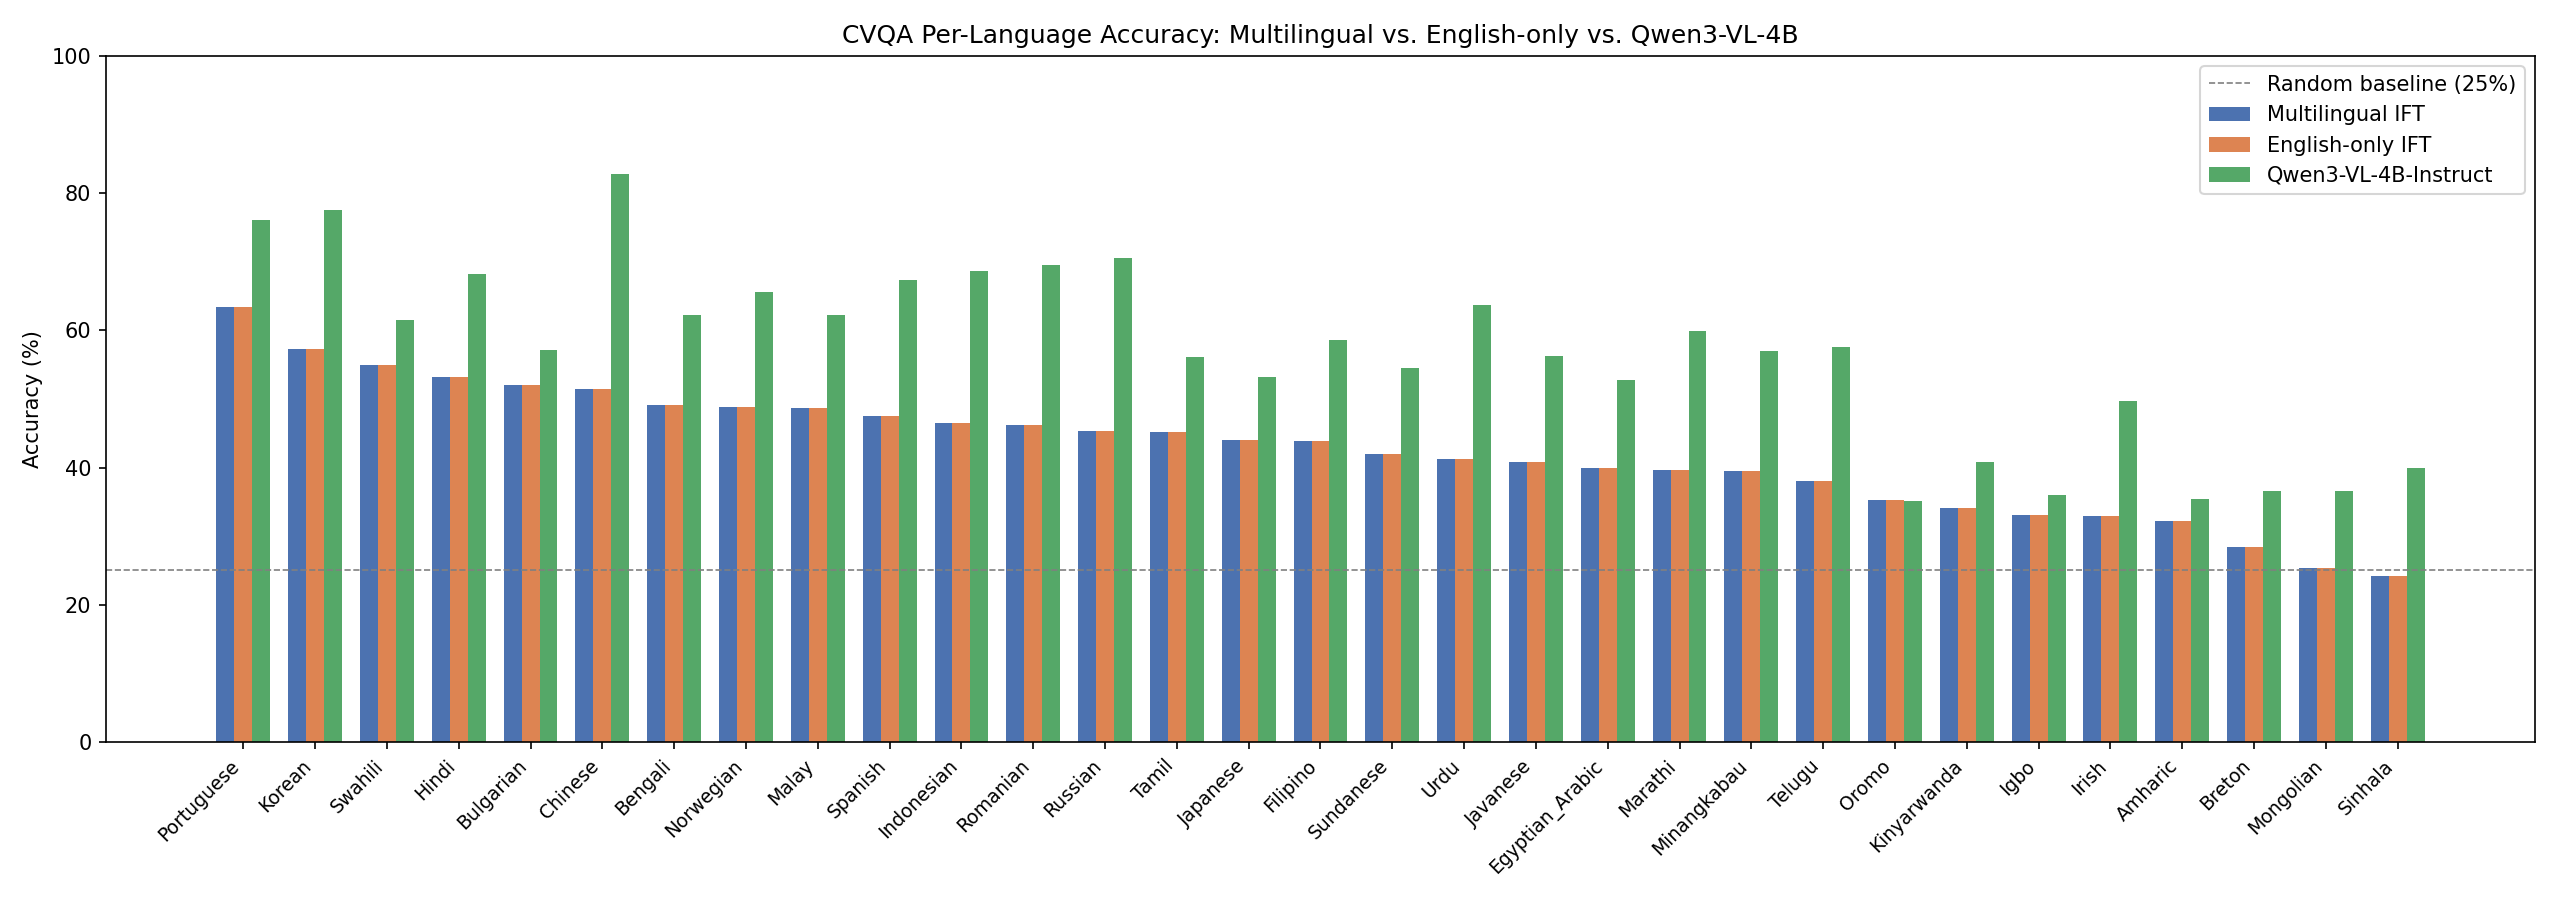
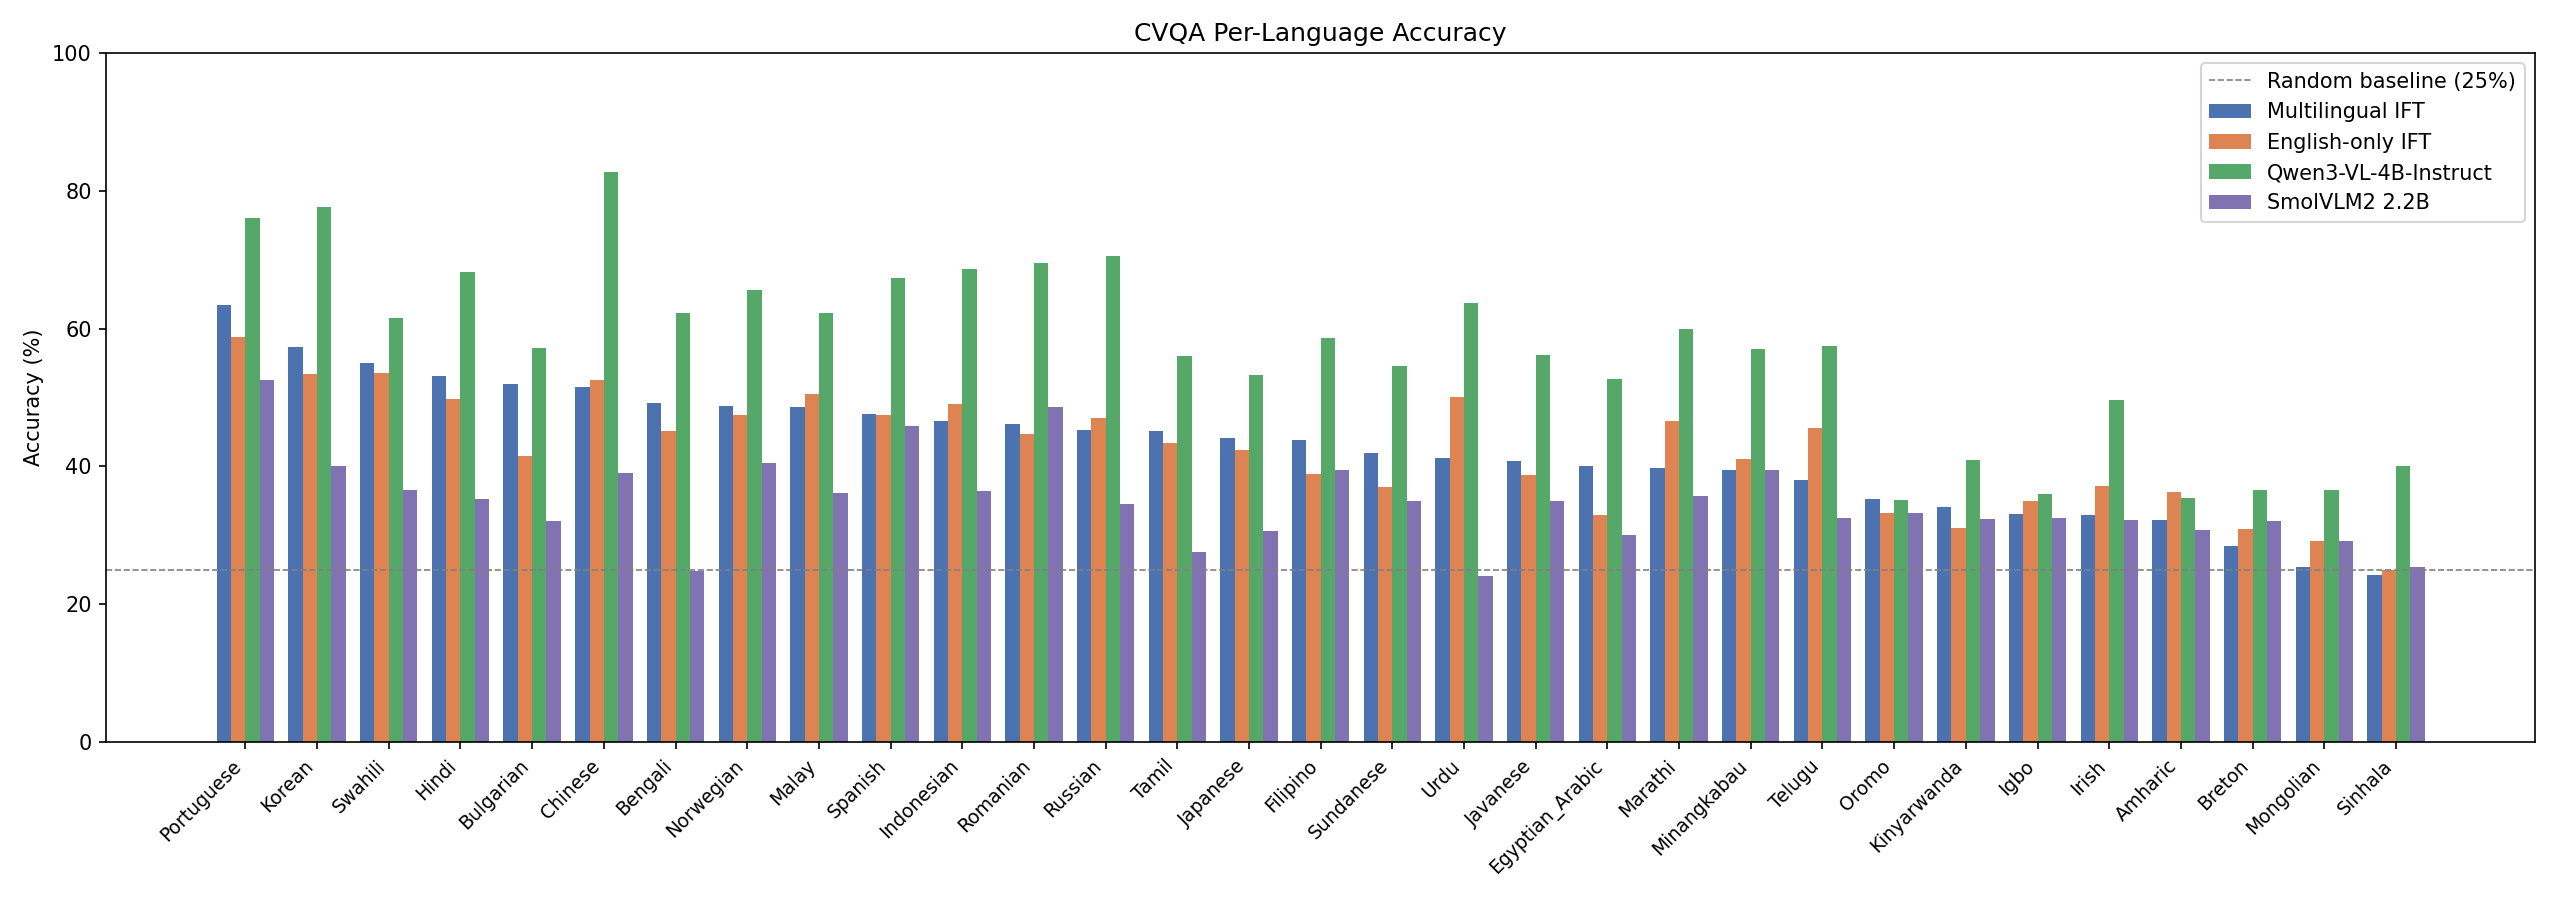
Add latest CVQA results to ablation visualization

diff --git a/evaluation/ablation_cvqa.py b/evaluation/ablation_cvqa.py
@@ -2,8 +2,8 @@
 Ablation analysis: English-only IFT vs. multilingual IFT on CVQA.
 
 Reads per-sample JSONL files produced by run_eval.py and generates:
-  - Per-language accuracy bar chart (both models side by side)
-  - Delta bar chart (multilingual - english_only), sorted by gap
+  - Per-language accuracy bar chart across comparison models
+  - Delta bar chart versus the English-only baseline, sorted by gap
   - Summary table printed to stdout
 
 Usage:
@@ -11,6 +11,7 @@ Usage:
         --multilingual <path/to/samples.jsonl> \
         --english-only <path/to/samples.jsonl> \
         [--qwen <path/to/samples.jsonl>] \
+        [--model "Label=<path/to/samples.jsonl>"] \
         [--output-dir evaluation/ablation_figures]
         [--min-samples 10]
 
@@ -23,7 +24,34 @@ import argparse
 import ast
 import json
 from collections import defaultdict
+from dataclasses import dataclass
 from pathlib import Path
+
+
+DEFAULT_LATEST_RESULTS = [
+    (
+        "TayaVision Instruct 665K",
+        "evaluation/results/TrishanuDas__tayavision-instruct-665k/cvqa_chunks/samples.jsonl",
+    ),
+    (
+        "SmolVLM2 2.2B",
+        "evaluation/results/HuggingFaceTB__SmolVLM2-2.2B-Instruct/cvqa_chunks/samples.jsonl",
+    ),
+]
+
+
+@dataclass(frozen=True)
+class ModelScores:
+    label: str
+    scores: dict[str, list[float]]
+
+    @property
+    def accuracies(self) -> dict[str, float]:
+        return per_language_accuracy(self.scores)
+
+    @property
+    def counts(self) -> dict[str, int]:
+        return {language: len(values) for language, values in self.scores.items()}
 
 
 def load_samples(path: str) -> dict[str, list[float]]:
@@ -50,113 +78,82 @@ def per_language_accuracy(scores: dict[str, list[float]]) -> dict[str, float]:
     return {lang: sum(vs) / len(vs) for lang, vs in scores.items()}
 
 
-def print_table(
-    multilingual: dict[str, float],
-    english: dict[str, float],
-    qwen: dict[str, float] | None,
-    min_samples: int,
-    ml_counts: dict[str, int],
-    en_counts: dict[str, int],
-    qwen_counts: dict[str, int] | None,
-) -> list[tuple]:
+def print_table(models: list[ModelScores], min_samples: int) -> list[dict]:
+    accuracies = {model.label: model.accuracies for model in models}
+    counts = {model.label: model.counts for model in models}
+    baseline = models[1].label
+    primary = models[0].label
     languages = sorted(
-        set(multilingual) | set(english) | (set(qwen) if qwen else set()),
-        key=lambda l: multilingual.get(l, 0),
+        set().union(*(model.scores for model in models)),
+        key=lambda language: accuracies[primary].get(language, 0),
         reverse=True,
     )
 
     rows = []
-    for lang in languages:
-        ml = multilingual.get(lang)
-        en = english.get(lang)
-        ml_n = ml_counts.get(lang, 0)
-        en_n = en_counts.get(lang, 0)
-        qwen_n = qwen_counts.get(lang, 0) if qwen_counts else 0
-        if ml_n < min_samples or en_n < min_samples:
+    for language in languages:
+        if any(counts[model.label].get(language, 0) < min_samples for model in models):
             continue
-        if ml is None or en is None:
+        if any(language not in accuracies[model.label] for model in models):
             continue
-        if qwen:
-            q = qwen.get(lang)
-            if q is None or qwen_n < min_samples:
-                continue
-            rows.append((lang, ml, en, q, ml - en, q - en))
-        else:
-            rows.append((lang, ml, en, ml - en))
+        rows.append(
+            {
+                "language": language,
+                "scores": {model.label: accuracies[model.label][language] for model in models},
+                "counts": {model.label: counts[model.label][language] for model in models},
+            }
+        )
 
     col = 24
-    if qwen:
-        print(
-            f"\n{'Language':<{col}}  {'Multilingual':>14}  {'English-only':>14}  {'Qwen3-VL-4B':>14}  "
-            f"{'Δ(ML-EN)':>10}  {'Δ(Qwen-EN)':>12}  {'n (ML/EN/QW)':>14}"
+    score_cols = "".join(f"  {model.label[:18]:>18}" for model in models)
+    delta_cols = "".join(f"  {'Δ ' + model.label[:15]:>18}" for model in models if model.label != baseline)
+    print(f"\n{'Language':<{col}}{score_cols}{delta_cols}  {'n':>8}")
+    print("-" * (col + 2 + 20 * len(models) + 20 * (len(models) - 1) + 10))
+    for row in rows:
+        score_cells = "".join(f"  {row['scores'][model.label] * 100:>17.1f}%" for model in models)
+        baseline_score = row["scores"][baseline]
+        delta_cells = "".join(
+            f"  {(row['scores'][model.label] - baseline_score) * 100:>+17.1f}%"
+            for model in models
+            if model.label != baseline
         )
-        print("-" * (col + 92))
-        for lang, ml, en, q, delta_ml_en, delta_q_en in rows:
-            ml_n = ml_counts[lang]
-            en_n = en_counts[lang]
-            q_n = qwen_counts[lang]
-            print(
-                f"{lang:<{col}}  {ml*100:>13.1f}%  {en*100:>13.1f}%  {q*100:>13.1f}%  "
-                f"{delta_ml_en*100:>+9.1f}%  {delta_q_en*100:>+11.1f}%  {ml_n:>4}/{en_n:<4}/{q_n:<4}"
-            )
-    else:
-        print(f"\n{'Language':<{col}}  {'Multilingual':>14}  {'English-only':>14}  {'Delta (ML-EN)':>14}  {'n (ML/EN)':>12}")
-        print("-" * (col + 60))
-        for lang, ml, en, delta in rows:
-            sign = "+" if delta >= 0 else ""
-            ml_n = ml_counts[lang]
-            en_n = en_counts[lang]
-            print(f"{lang:<{col}}  {ml*100:>13.1f}%  {en*100:>13.1f}%  {sign}{delta*100:>12.1f}%  {ml_n:>5}/{en_n:<5}")
+        sample_counts = "/".join(str(row["counts"][model.label]) for model in models)
+        print(f"{row['language']:<{col}}{score_cells}{delta_cells}  {sample_counts:>8}")
 
-    overall_ml = sum(multilingual[l] * ml_counts[l] for l in multilingual) / sum(ml_counts.values())
-    overall_en = sum(english[l] * en_counts[l] for l in english) / sum(en_counts.values())
-    if qwen and qwen_counts:
-        overall_q = sum(qwen[l] * qwen_counts[l] for l in qwen) / sum(qwen_counts.values())
-        print("-" * (col + 92))
-        print(
-            f"{'OVERALL':<{col}}  {overall_ml*100:>13.1f}%  {overall_en*100:>13.1f}%  {overall_q*100:>13.1f}%  "
-            f"{(overall_ml-overall_en)*100:>+9.1f}%  {(overall_q-overall_en)*100:>+11.1f}%"
-        )
-    else:
-        print("-" * (col + 60))
-        print(f"{'OVERALL':<{col}}  {overall_ml*100:>13.1f}%  {overall_en*100:>13.1f}%  {(overall_ml-overall_en)*100:>+13.1f}%")
+    print("-" * (col + 2 + 20 * len(models) + 20 * (len(models) - 1) + 10))
+    overall = {}
+    for model in models:
+        total = sum(model.counts.values())
+        overall[model.label] = sum(model.accuracies[l] * model.counts[l] for l in model.accuracies) / total
+    score_cells = "".join(f"  {overall[model.label] * 100:>17.1f}%" for model in models)
+    baseline_score = overall[baseline]
+    delta_cells = "".join(
+        f"  {(overall[model.label] - baseline_score) * 100:>+17.1f}%" for model in models if model.label != baseline
+    )
+    print(f"{'OVERALL':<{col}}{score_cells}{delta_cells}")
     return rows
 
 
-def plot_side_by_side(
-    rows: list[tuple],
-    output_dir: Path,
-    include_qwen: bool,
-) -> None:
+def plot_side_by_side(rows: list[dict], models: list[ModelScores], output_dir: Path) -> None:
     import matplotlib.pyplot as plt
     import numpy as np
 
-    rows_sorted = sorted(rows, key=lambda r: r[1], reverse=True)
-    langs = [r[0] for r in rows_sorted]
-    ml_scores = [r[1] * 100 for r in rows_sorted]
-    en_scores = [r[2] * 100 for r in rows_sorted]
-    q_scores = [r[3] * 100 for r in rows_sorted] if include_qwen else None
+    rows_sorted = sorted(rows, key=lambda row: row["scores"][models[0].label], reverse=True)
+    langs = [row["language"] for row in rows_sorted]
 
     x = np.arange(len(langs))
-    width = 0.25 if include_qwen else 0.4
+    width = min(0.8 / len(models), 0.28)
+    colors = ["#4C72B0", "#DD8452", "#55A868", "#8172B2", "#C44E52", "#937860"]
+    offsets = (np.arange(len(models)) - (len(models) - 1) / 2) * width
 
     fig, ax = plt.subplots(figsize=(max(12, len(langs) * 0.55), 6))
-    if include_qwen:
-        ax.bar(x - width, ml_scores, width, label="Multilingual IFT", color="#4C72B0")
-        ax.bar(x, en_scores, width, label="English-only IFT", color="#DD8452")
-        ax.bar(x + width, q_scores, width, label="Qwen3-VL-4B-Instruct", color="#55A868")
-    else:
-        ax.bar(x - width / 2, ml_scores, width, label="Multilingual IFT", color="#4C72B0")
-        ax.bar(x + width / 2, en_scores, width, label="English-only IFT", color="#DD8452")
+    for i, model in enumerate(models):
+        scores = [row["scores"][model.label] * 100 for row in rows_sorted]
+        ax.bar(x + offsets[i], scores, width, label=model.label, color=colors[i % len(colors)])
 
     ax.set_ylabel("Accuracy (%)")
-    if include_qwen:
-        ax.set_title("CVQA Per-Language Accuracy: Multilingual vs. English-only vs. Qwen3-VL-4B")
-    else:
-        ax.set_title("CVQA Per-Language Accuracy: Multilingual vs. English-only IFT")
+    ax.set_title("CVQA Per-Language Accuracy")
     ax.set_xticks(x)
     ax.set_xticklabels(langs, rotation=45, ha="right", fontsize=9)
-    ax.legend()
     ax.set_ylim(0, 100)
     ax.axhline(25, color="gray", linestyle="--", linewidth=0.8, label="Random baseline (25%)")
     ax.legend()
@@ -168,37 +165,27 @@ def plot_side_by_side(
     plt.close(fig)
 
 
-def plot_delta(
-    rows: list[tuple],
-    output_dir: Path,
-    include_qwen: bool,
-) -> None:
+def plot_delta(rows: list[dict], models: list[ModelScores], output_dir: Path) -> None:
     import matplotlib.pyplot as plt
     import numpy as np
 
-    rows_sorted = sorted(rows, key=lambda r: r[3] if not include_qwen else r[4], reverse=True)
-    langs = [r[0] for r in rows_sorted]
+    baseline = models[1].label
+    comparison_models = [model for model in models if model.label != baseline]
+    rows_sorted = sorted(rows, key=lambda row: row["scores"][models[0].label] - row["scores"][baseline], reverse=True)
+    langs = [row["language"] for row in rows_sorted]
     fig, ax = plt.subplots(figsize=(max(12, len(langs) * 0.55), 5))
     x = np.arange(len(langs))
-    if include_qwen:
-        deltas_ml = [r[4] * 100 for r in rows_sorted]
-        deltas_qw = [r[5] * 100 for r in rows_sorted]
-        width = 0.38
-        ax.bar(x - width / 2, deltas_ml, width, label="Multilingual - English-only", color="#4C72B0")
-        ax.bar(x + width / 2, deltas_qw, width, label="Qwen - English-only", color="#55A868")
-        ax.legend()
-    else:
-        deltas = [r[3] * 100 for r in rows_sorted]
-        colors = ["#4C72B0" if d >= 0 else "#C44E52" for d in deltas]
-        ax.bar(x, deltas, color=colors)
+    width = min(0.8 / len(comparison_models), 0.38)
+    colors = ["#4C72B0", "#55A868", "#8172B2", "#C44E52", "#937860"]
+    offsets = (np.arange(len(comparison_models)) - (len(comparison_models) - 1) / 2) * width
+    for i, model in enumerate(comparison_models):
+        deltas = [(row["scores"][model.label] - row["scores"][baseline]) * 100 for row in rows_sorted]
+        ax.bar(x + offsets[i], deltas, width, label=f"{model.label} - {baseline}", color=colors[i % len(colors)])
+    ax.legend()
 
     ax.axhline(0, color="black", linewidth=0.8)
-    if include_qwen:
-        ax.set_ylabel("Δ Accuracy vs English-only (%)")
-        ax.set_title("CVQA Accuracy Delta by Language")
-    else:
-        ax.set_ylabel("Δ Accuracy (Multilingual − English-only) in %")
-        ax.set_title("CVQA Accuracy Delta by Language (Multilingual IFT − English-only IFT)")
+    ax.set_ylabel(f"Δ Accuracy vs {baseline} (%)")
+    ax.set_title("CVQA Accuracy Delta by Language")
     ax.set_xticks(x)
     ax.set_xticklabels(langs, rotation=45, ha="right", fontsize=9)
 
@@ -209,32 +196,64 @@ def plot_delta(
     plt.close(fig)
 
 
+def parse_labeled_sample_arg(value: str) -> tuple[str, str]:
+    if "=" not in value:
+        raise argparse.ArgumentTypeError("Expected LABEL=PATH")
+    label, path = value.split("=", 1)
+    label = label.strip()
+    path = path.strip()
+    if not label or not path:
+        raise argparse.ArgumentTypeError("Expected non-empty LABEL=PATH")
+    return label, path
+
+
+def add_model(models: list[tuple[str, str]], label: str, path: str) -> None:
+    resolved_paths = {str(Path(existing_path).expanduser().resolve()) for _label, existing_path in models}
+    resolved_path = str(Path(path).expanduser().resolve())
+    if resolved_path not in resolved_paths:
+        models.append((label, path))
+
+
 def main():
     parser = argparse.ArgumentParser(description="CVQA ablation: multilingual vs. english-only IFT")
     parser.add_argument("--multilingual", required=True, help="Path to multilingual model samples JSONL")
     parser.add_argument("--english-only", required=True, help="Path to english-only model samples JSONL")
     parser.add_argument("--qwen", default=None, help="Optional path to Qwen model samples JSONL")
+    parser.add_argument(
+        "--model",
+        action="append",
+        default=[],
+        type=parse_labeled_sample_arg,
+        help='Additional comparison model as "Label=path/to/samples.jsonl". Can be repeated.',
+    )
+    parser.add_argument(
+        "--no-default-latest",
+        action="store_true",
+        help="Do not auto-include the latest local TayaVision Instruct and SmolVLM2 CVQA results when present.",
+    )
     parser.add_argument("--output-dir", default="evaluation/ablation_figures")
     parser.add_argument("--min-samples", type=int, default=10, help="Min samples per language to include")
     args = parser.parse_args()
 
-    print(f"Loading multilingual samples from: {args.multilingual}")
-    ml_scores = load_samples(args.multilingual)
-    print(f"Loading english-only samples from: {args.english_only}")
-    en_scores = load_samples(args.english_only)
-    qwen_scores = None
+    model_paths = [
+        ("Multilingual IFT", args.multilingual),
+        ("English-only IFT", args.english_only),
+    ]
     if args.qwen:
-        print(f"Loading qwen samples from: {args.qwen}")
-        qwen_scores = load_samples(args.qwen)
+        add_model(model_paths, "Qwen3-VL-4B-Instruct", args.qwen)
+    if not args.no_default_latest:
+        for label, path in DEFAULT_LATEST_RESULTS:
+            if Path(path).exists():
+                add_model(model_paths, label, path)
+    for label, path in args.model:
+        add_model(model_paths, label, path)
 
-    ml_acc = per_language_accuracy(ml_scores)
-    en_acc = per_language_accuracy(en_scores)
-    qwen_acc = per_language_accuracy(qwen_scores) if qwen_scores else None
-    ml_counts = {l: len(v) for l, v in ml_scores.items()}
-    en_counts = {l: len(v) for l, v in en_scores.items()}
-    qwen_counts = {l: len(v) for l, v in qwen_scores.items()} if qwen_scores else None
+    models = []
+    for label, path in model_paths:
+        print(f"Loading {label} samples from: {path}")
+        models.append(ModelScores(label=label, scores=load_samples(path)))
 
-    rows = print_table(ml_acc, en_acc, qwen_acc, args.min_samples, ml_counts, en_counts, qwen_counts)
+    rows = print_table(models, args.min_samples)
 
     if not rows:
         print("No languages passed the min-samples threshold.")
@@ -244,8 +263,8 @@ def main():
     output_dir.mkdir(parents=True, exist_ok=True)
 
     try:
-        plot_side_by_side(rows, output_dir, include_qwen=bool(qwen_scores))
-        plot_delta(rows, output_dir, include_qwen=bool(qwen_scores))
+        plot_side_by_side(rows, models, output_dir)
+        plot_delta(rows, models, output_dir)
     except ImportError:
         print("\nmatplotlib not available — skipping figures. Install with: pip install matplotlib")
 
